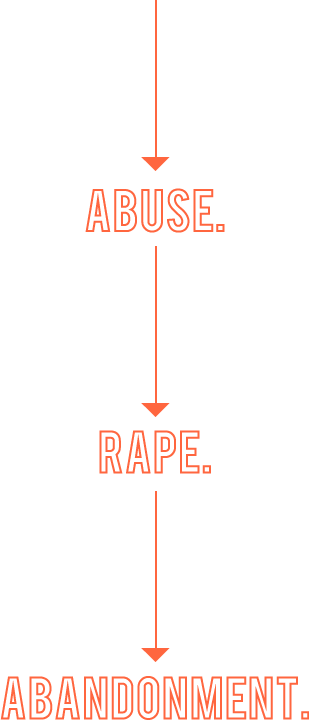
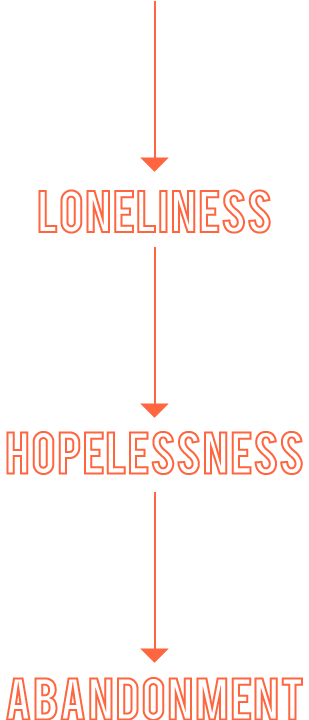
Massive changes

Changed region(s): [[0.0, 0.2139, 1.0, 1.0], [0.4951, 0.0, 0.5243, 0.2139]]

diff --git a/css/styles.css b/css/styles.css
@@ -95,13 +95,45 @@ nav ul li a:hover {
 /*
 Article placements
 */
+#introsec {
+z-index:90;
+background: #000;
+background: rgba(0,0,0,.85);
+width: 100%;
+height: 100%;
+top: 0;
+left: 0;
+padding-top: 70px;
+position: fixed;
+text-align: center;
+display:none;
+}
+#introsec h1 {
+font-size: 34px;
+color: #fff;
+width: 674px;
+line-height: 45px;
+position: relative;
+left: 50%;
+margin-left: -337px;
+padding-top: 30px;
+}
+#introsec p {
+position: relative;
+left: 50%;
+margin-left: -337px;
+padding-top: 15px;
+width: 674px;
+font-size: 18px;
+line-height: 28px;
+}
 #sec1art1 { top: 280px; width: 400px; }
 #sec1art2 { top: 973px; left: 0; }
 #sec1art3 { top: 1497px; width: 400px; right: 0; }
 #sec1art4 { top: 2267px; left: 0; }
 #sec2art1 { top: 3079px; left: 0; }
 #sec2art2 { top: 3570px; width: 720px; }
-#sec2art3 { top: 4390px; width: 380px; left: 260px; }
+#sec2art3 { top: 4390px; width: 500px; left: 250px; }
 #sec2art4 { top: 4646px; left: 0; }
 #sec2art9 { top: 6488px; left: 0; }
 #sec2art10 { top: 7891px; right: 0; width: 700px; }
@@ -109,7 +141,8 @@ Article placements
 #sec2art12 { top: 9533px; left: 0; }
 #sec3art1 { top: 10033px; left: 0; width: 750px; }
 #sec3art4 { top: 10379px; left: 0; }
-#sec3art5 { top: 12050px; left: 0; }
+#sec3final { top: 12300px; left: 0; }
+#sec3art5 { top: 12350px; left: 0; }
 
 /*
 layouts
@@ -291,14 +324,25 @@ rotate
 /*
 navs
 */
-#sec1art1 #scroll {
+#sec1art1 #scroll, #why {
 	position: fixed;
 	bottom: 0;
 	left: 0;
-	display: none;
 	width: 100%;
-	text-align: center;
-	margin-bottom: 10px;
+ 	text-align: center;
+	z-index: 101;
+	display: none;
+}
+#scroll img {
+	margin-left: 140px;
+}
+#why img {
+  margin-right: 140px;
+}
+
+#sec3final h2 {
+width: 100%;
+text-align: center;
 }
 
 /*

diff --git a/js/timeline.js b/js/timeline.js
@@ -41,6 +41,31 @@
 				$.oceaster[self.attr('data-scrolltrigger')](self, percent);
 			});
 		},
+		
+		introTriggerInit: function(section) {
+      		
+            setInterval(function() {
+            $('#scroll')
+           			.animate({
+     					bottom: -20
+      				})
+      				.animate({
+     					bottom: 0
+      				});
+            }, 3000);
+		},
+		
+		introTrigger: function(section) {
+      		if ($(window).scrollTop() == 0 && section.is(':hidden')) {
+          		section.fadeIn();
+          		$('#scroll').fadeIn();
+          		$('#why').fadeIn();
+          	} else if (!section.is(':hidden') && $(window).scrollTop() > 0) {
+               	section.fadeOut();
+               	$('#scroll').fadeOut();
+               	$('#why').fadeOut();
+          	}
+		},
 
 		fadeByWordTriggerInit: function(section) {
 			var classes = section[0]['className'];
@@ -347,11 +372,7 @@
 		},
 
 		navTrigger: function(section, percent) {
-			if (percent == 0) {
-				section.css({position: 'absolute', top: 100});
-			} else {
-				section.css({position: 'fixed', top: 0});
-			}
+			section.css({position: 'fixed', top: 0});
 		},
 
 		withinSection: function(section) {

diff --git a/pages/scroll.php b/pages/scroll.php
@@ -1,19 +1,25 @@
 <section>
+    <article id="introsec" data-scrolltrigger="introTrigger" data-triggerstart="0" data-triggerend="1">
+      <img src="img/oceaster_header.png" width="455" height="195" alt="OC Easter" />
+      <h1>A county-wide celebration of the <span class="blue">freedom</span> found in the life, death and ressurection of Jesus Christ.</h1>
+      <p>Sunday April 24, 9am and 11:15am<br />with Francis Chan<br />Pacific Amphitheatre at the OC Fairgrounds</p>
+    </article>
 	<article id="sec1art1">
 		<h1>Remember life as<br/><span class="white">a kid?</span></h1>
 		<p>Yes, crayons, goldfish, and stickers ruled the day.</p><p>But not just that...</p>
-		<p id="scroll"><img src="img/startscrolling.png" width="83" height="50" alt="Scroll Down" /></p>
 		<div class="background"><img src="img/splatter_1.png" height="347" width="347" /></div>
+		<p id="why"><img src="img/eastercelebration.png" width="165" height="97" alt="An Easter Celebration? Why?" /></p>
+		<p id="scroll"><img src="img/startscrolling.png" width="165" height="97" alt="Start scrolling" /></p>
 	</article>
 	<article id="sec1art2">
-		<h1><span class="white">Remember</span> how different it <span class="blue">felt</span>?</h1>
+		<h1><span class="white">Remember</span> how different life seemed?</h1>
 		<div class="background"><img src="img/splatter_2.png" height="330" width="330" /></div>
 	</article>
 	<article id="sec1art3">
-		<h1>Without even trying, there was this undercurrent of<br /> <span class="white">security</span></h1>
-		<p>...of not caring what everyone else thought</p>
-		<p>...of simple joy and life that came just because you woke up.</p>
-		<div class="background"><img src="img/splatter_3.png" height="344" width="344" /></div>
+		<h1>No matter what,<br /> no matter when,<br /> no matter where...</h1>
+		<p><br />You could do anything.</p>
+		<p>You could be anybody.</p>
+		<p>Everything was possible.</p>
 	</article>
 	<article id="sec1art4">
 		<h1>Words<br/>like</h1>
@@ -33,11 +39,11 @@
 		<h1>But then it happened</h1>
 	</article>
 	<article id="sec2art2">
-		<h1>You’re not sure when and where you <span class="red">lost</span> the feeling</h1>
-		<h1>...but at some point you realized it was <span class="red">gone.</span></h1>
+		<h1>You’re not sure when and where...</h1>
+		<h1>but at some point you realized<br /><span class="red">things were not as they seemed.</span></h1>
 	</article>
 	<article id="sec2art3">
-		<h1>And before you had time to find it again...</h1>
+		<h1>And before you had time<br />to work it all out...</h1>
 	</article>
 	<article id="sec2art4">
 		<hgroup data-scrolltrigger="implodeTrigger" data-triggerstart="4000" data-triggerend="4800">
@@ -46,35 +52,34 @@
 		<p style="top: 340px" data-scrolltrigger="fadeInOutTrigger" data-triggerstart="4500" data-triggerend="4800">A loved one died.</p>
 		<p style="top: 680px; right: 0;" data-scrolltrigger="fadeInOutTrigger" data-triggerstart="4800" data-triggerend="5200">Your parents split.</p>
 		<p style="top: 1020px" data-scrolltrigger="fadeInOutTrigger" data-triggerstart="5100" data-triggerend="5500">You lost a job.</p>
-		<p style="top: 1360px; right: 0;" data-scrolltrigger="fadeInOutTrigger" data-triggerstart="5400" data-triggerend="5900">You lost a house.</p>
+		<p style="top: 1360px; right: 0;" data-scrolltrigger="fadeInOutTrigger" data-triggerstart="5400" data-triggerend="5900">Someone broke your heart.</p>
 	</article>
 	<article id="sec2art9" data-scrolltrigger="viewportTrigger" data-triggerstart="6200" data-triggerend="7200">
-		<h1>Or perhaps you experienced something that has<br/>
-			<span class="red" data-scrolltrigger="fadeByWordTrigger" data-triggerstart="6000" data-triggerend="7200">no place in this world</span>
+		<h1>Or perhaps you experienced something that<br/>
+			<span class="red" data-scrolltrigger="fadeByWordTrigger" data-triggerstart="6000" data-triggerend="7200">bound your heart and soul</span>
 		</h1>
-		<canvas class="viewport"><img src="img/degression.png" height="720" width="309" alt="Abuse, Rape, Abandonment" /></canvas>
+		<canvas class="viewport"><img src="img/degression.png" height="720" width="309" alt="Loneliness, Hopelessness, Abandonment" /></canvas>
 	</article>
 	<article id="sec2art10" data-scrolltrigger="maskTrigger" data-triggerstart="7230" data-triggerend="8330">
-		<p>So sometimes instead of grabbing hold of the things that give life...you settle for anything that promises to <span class="red"><br/>numb the pain</span></p>
+		<p>So you grab hold of things that appear to give life, but quickly find <span class="red"><br />they cannot satisfy</span></p>
 		<hgroup>
-			<h2>Alcohol</h2>
+			<h2>Escapism</h2>
+			<h2>Busyness</h2>
+			<h2>Apathy</h2>
 			<h2>Isolation</h2>
-			<h2>Sex</h2>
-			<h2>60-hour<br/>workweeks</h2>
-			<h2>Pornography</h2>
-			<h2>Drugs</h2>
+			<h2>Selfishness</h2>
 		</hgroup>
 		<canvas><img src="img/splatter_4.png" height="807" width="670" /></canvas>
 	</article>
 	<article id="sec2art11" data-scrolltrigger="rotateTrigger" data-triggerstart="7500" data-triggerend="10000">
 		<h1>And life becomes this vicious cycle of</h1>
 		<div id="cycle">
-			<canvas width="500" height="500"><img src="img/painmedication.png" height="127" width="346" alt="Pain and Medication" /></canvas>
+			<canvas width="500" height="500"><img src="img/painmedication.png" height="127" width="346" alt="Pain and Numbness" /></canvas>
 			<p>and more</p>
 		</div>
 	</article>
 	<article id="sec2art12">
-		<h1>But is that really <span class="blue">life</span> at all?</h1>
+		<h1>But that isn&apos;t <span class="blue">life</span> at all.</h1>
 	</article>
 </section>
 
@@ -89,13 +94,16 @@
 	<article id="sec3art4">
 		<hgroup>
 			<h1>What if</h1>
-			<h2 class="blue" style="top: 0px" data-scrolltrigger="followerTrigger" data-triggerstart="10000" data-triggerend="10300">your identity could be secure?</h2>
-			<h2 class="blue" style="top: 300px" data-scrolltrigger="followerTrigger" data-triggerstart="10300" data-triggerend="10600">love was real?</h2>
-			<h2 class="blue" style="top: 600px" data-scrolltrigger="followerTrigger" data-triggerstart="10600" data-triggerend="10900">security could be felt and lived out of?</h2>
-			<h2 class="blue" style="top: 900px" data-scrolltrigger="followerTrigger" data-triggerstart="10900" data-triggerend="11300">when pain and despair and heartache happened, there was a way to know you were OK?</h2>
-			<h2 class="blue" style="top: 1300px" data-scrolltrigger="followerTrigger" data-triggerstart="11300" data-triggerend="11600">you didn’t need all the medication?</h2>
-			<h2 class="blue" style="top: 1600px" data-scrolltrigger="followerTrigger" data-triggerstart="11600" data-triggerend="15000">it was possible...</h2>
+			<h2 class="blue" style="top: 0px" data-scrolltrigger="followerTrigger" data-triggerstart="10000" data-triggerend="10300">hope was still possible?</h2>
+			<h2 class="blue" style="top: 300px" data-scrolltrigger="followerTrigger" data-triggerstart="10300" data-triggerend="10600">purpose could be found?</h2>
+			<h2 class="blue" style="top: 600px" data-scrolltrigger="followerTrigger" data-triggerstart="10600" data-triggerend="10900">you could discover the you that was intended?</h2>
+			<h2 class="blue" style="top: 900px" data-scrolltrigger="followerTrigger" data-triggerstart="10900" data-triggerend="11300">redemption spoke louder than heartache?</h2>
+			<h2 class="blue" style="top: 1300px" data-scrolltrigger="followerTrigger" data-triggerstart="11300" data-triggerend="11600">peace and joy ruled the day?</h2>
+			<h2 class="blue" style="top: 1600px" data-scrolltrigger="followerTrigger" data-triggerstart="11600" data-triggerend="11900">it was all possible?</h2>
 		</hgroup>
+	</article>
+	<article id="sec3final">
+     	<h2 class="blue" data-scrolltrigger="fadeInOutTrigger" data-triggerstart="12040" data-triggerend="15000">Jesus says it is.</h2>
 	</article>
 	<article id="sec3art5" data-scrolltrigger="scratchTrigger" data-triggerstart="15500" data-triggerend="15500">
 		<canvas id="scratch" width="952" height="481"><img src="img/scratch.png" height="441" width="852" alt="Freedom" style="background:url('img/scratch_background.png') no-repeat" /></canvas>

diff --git a/index.php b/index.php
@@ -15,34 +15,11 @@ $url = $_GET['url'].'.php';
 		<?php if(!(isset($_GET['url']) && $_GET['url'] != 'scroll')): ?>
 		<script type="text/javascript" src="js/timeline.js"></script>
 		<script type="text/javascript">
-			var hint;
-			function hideHint() {
-				clearTimeout(hint);
-				$('#scroll').fadeOut();
-				$(window).unbind('scroll', hideHint);
-			}
-			function showHint() {
-				if ($(window).scrollTop() > 0) {
-					return;
-				}
-				$('#scroll').show().css({
-					bottom: $('#scroll').css('bottom') - 20,
-					opacity: 0
-				});
-				$('#scroll').animate({
-					bottom: 0,
-					opacity: 1
-				});
-			}
-				
 			$(document).ready(function() {
 				window.setTimeout(function() {
 					$.oceaster.init();
 					$(window).bind('scroll', $.oceaster.update);
 				}, 1);
-				
-				hint = setTimeout('showHint()', 2000);
-				$(window).bind('scroll', hideHint);
 			});
 		</script>
 		<?php endif; ?>
@@ -66,7 +43,9 @@ $url = $_GET['url'].'.php';
 		<div id="wrapper" class="<?php echo $url != 'scroll.php' ? 'page' : 'scroll'; ?>">
 			<div id="content">
 				<header id="header"><?php
-				echo $url != 'scroll.php' ? '<a href="/"><h1>OC Easter</h1></a>' : '<h1>OC Easter</h1>';
+				if ($url != 'scroll.php') {
+      				echo '<a href="/"><h1>OC Easter</h1></a>';
+                   }
 				?></header>
 				<?php include 'nav.php'; ?>
 				<?php
